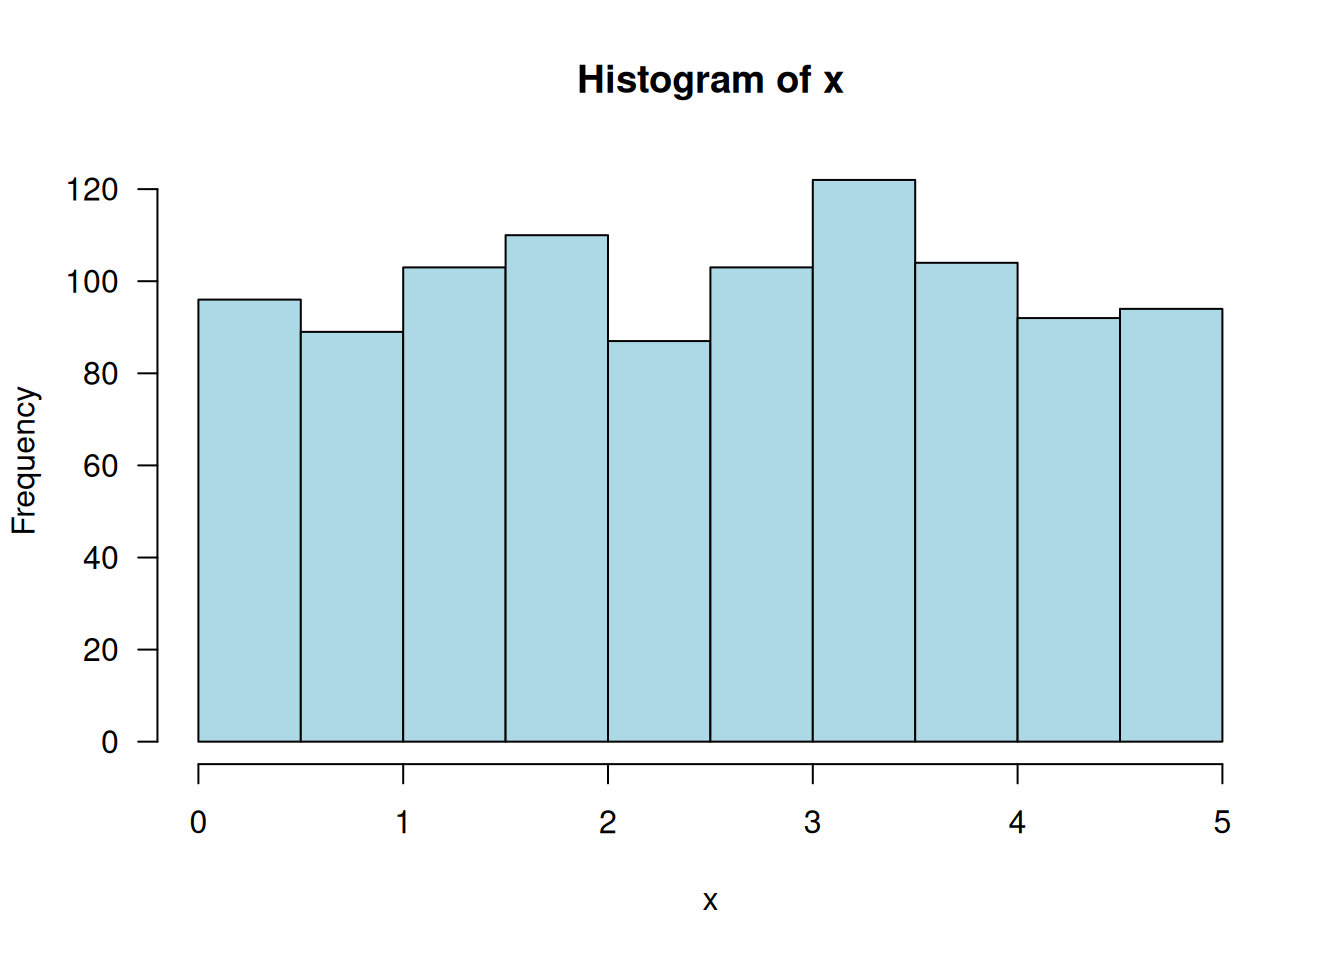
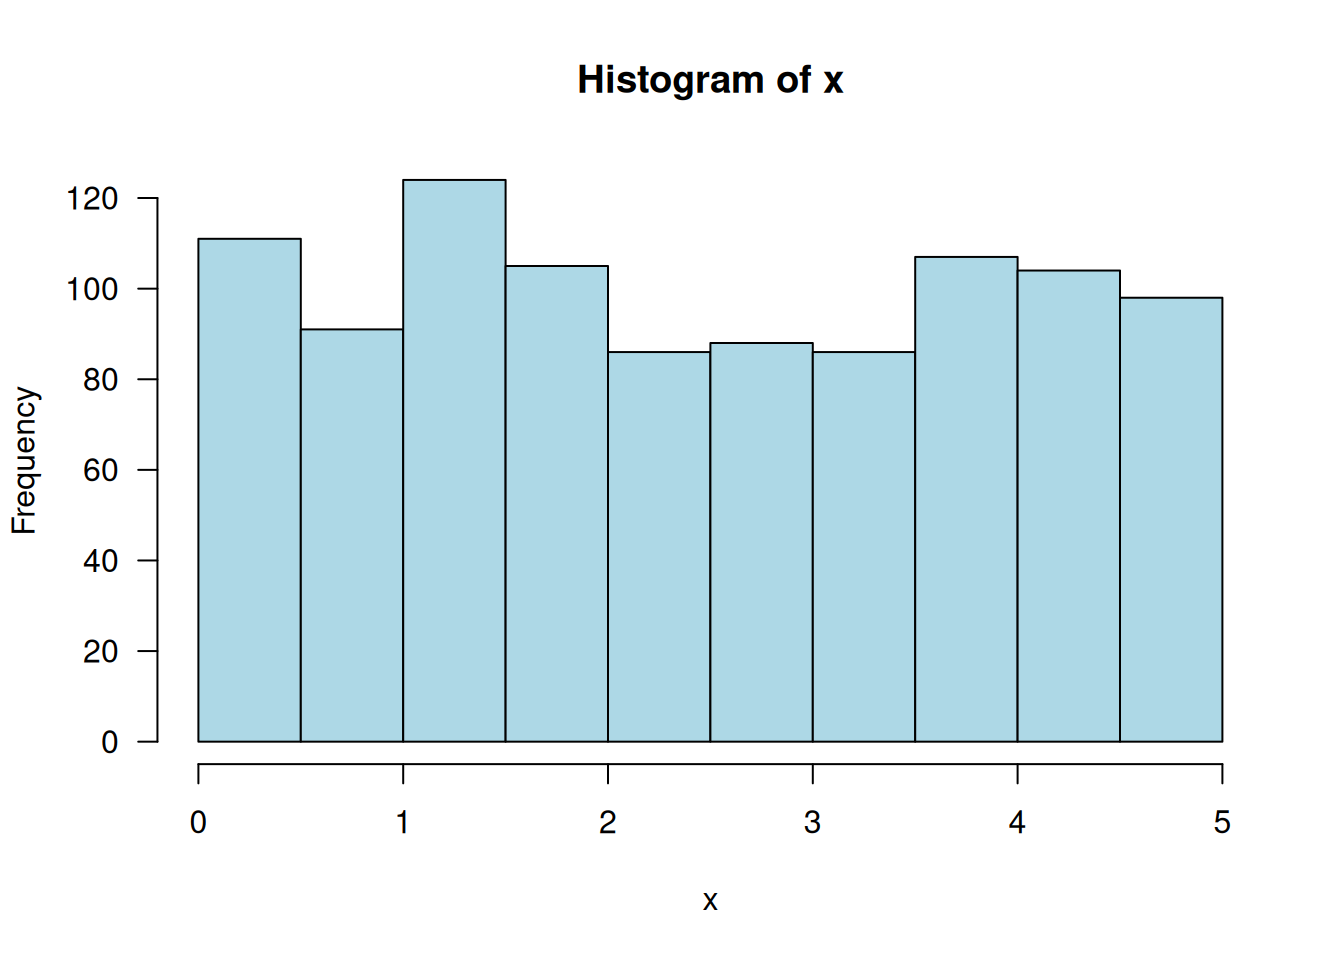
Deploying to gh-pages from @ jtr13/1201@130b52e1caddeb5952ee019c9a14592dcee58bc8 🚀

diff --git a/ch.-1-descriptive-statistics.html b/ch.-1-descriptive-statistics.html
@@ -7,7 +7,7 @@
 <title>Ch. 1 Descriptive Statistics | Stat 1201 Resources</title>
 <meta name="author" content="Joyce Robbins">
 <meta name="description" content="Sections covered: all (skim 1.1) 1.2 Pictorial and Tabular Methods in Descriptive Statistics Skip: Example 1.7, p. 15 (double-digit leaves) Skip: “Dotplots,” pp. 15-16 Stem-and-leaf plots Ex: The...">
-<meta name="generator" content="bookdown 0.43 with bs4_book()">
+<meta name="generator" content="bookdown 0.46 with bs4_book()">
 <meta property="og:title" content="Ch. 1 Descriptive Statistics | Stat 1201 Resources">
 <meta property="og:type" content="book">
 <meta property="og:url" content="https://jtr13.github.io/1201/ch.-1-descriptive-statistics.html">
@@ -140,7 +140,7 @@
 <span>            <span class="fl">675</span>, <span class="fl">699</span>, <span class="fl">699</span>, <span class="fl">725</span>, <span class="fl">725</span>, <span class="fl">745</span>, <span class="fl">799</span><span class="op">)</span></span>
 <span></span>
 <span><span class="fu"><a href="https://rdrr.io/r/graphics/hist.html">hist</a></span><span class="op">(</span><span class="va">prices</span><span class="op">)</span></span></code></pre></div>
-<div class="inline-figure"><img src="STAT1201-resource_files/figure-html/unnamed-chunk-14-1.png" width="65%" style="display: block; margin: auto;"></div>
+<div class="inline-figure"><img src="STAT1201-resource_files/figure-html/unnamed-chunk-14-1.png" alt="" width="65%" style="display: block; margin: auto;"></div>
 <p><em>Note: histograms are drawn with unbinned data. R does the binning in the process of drawing the histogram. This means that the program chooses the size of the bins for you.</em></p>
 <p>To add specific bin sizes and colors to your histogram, you can use the following syntax:</p>
 <div class="sourceCode" id="cb47"><pre class="downlit sourceCode r">
@@ -148,7 +148,7 @@
 <span>            <span class="fl">675</span>, <span class="fl">699</span>, <span class="fl">699</span>, <span class="fl">725</span>, <span class="fl">725</span>, <span class="fl">745</span>, <span class="fl">799</span><span class="op">)</span></span>
 <span><span class="fu"><a href="https://rdrr.io/r/graphics/hist.html">hist</a></span><span class="op">(</span><span class="va">prices</span>, breaks <span class="op">=</span> <span class="fu"><a href="https://rdrr.io/r/base/c.html">c</a></span><span class="op">(</span><span class="fl">300</span>, <span class="fl">400</span>, <span class="fl">500</span>, <span class="fl">600</span>, <span class="fl">700</span>, <span class="fl">800</span><span class="op">)</span>,</span>
 <span>     col <span class="op">=</span> <span class="st">"lightblue"</span><span class="op">)</span></span></code></pre></div>
-<div class="inline-figure"><img src="STAT1201-resource_files/figure-html/unnamed-chunk-15-1.png" width="65%" style="display: block; margin: auto;"></div>
+<div class="inline-figure"><img src="STAT1201-resource_files/figure-html/unnamed-chunk-15-1.png" alt="" width="65%" style="display: block; margin: auto;"></div>
 </div>
 <div id="density-histogram" class="section level3 unnumbered">
 <h3>Density histogram<a class="anchor" aria-label="anchor" href="#density-histogram"><i class="fas fa-link"></i></a>
@@ -161,7 +161,7 @@
 <span><span class="fu"><a href="https://rdrr.io/r/graphics/hist.html">hist</a></span><span class="op">(</span><span class="va">prices</span>, freq <span class="op">=</span> <span class="cn">FALSE</span>, </span>
 <span>     breaks <span class="op">=</span> <span class="fu"><a href="https://rdrr.io/r/base/c.html">c</a></span><span class="op">(</span><span class="fl">300</span>, <span class="fl">400</span>, <span class="fl">500</span>, <span class="fl">600</span>, <span class="fl">700</span>, <span class="fl">800</span><span class="op">)</span>,</span>
 <span>     col <span class="op">=</span> <span class="st">"lightblue"</span>, las <span class="op">=</span> <span class="fl">1</span><span class="op">)</span></span></code></pre></div>
-<div class="inline-figure"><img src="STAT1201-resource_files/figure-html/unnamed-chunk-16-1.png" width="65%" style="display: block; margin: auto;"></div>
+<div class="inline-figure"><img src="STAT1201-resource_files/figure-html/unnamed-chunk-16-1.png" alt="" width="65%" style="display: block; margin: auto;"></div>
 <p>(<code>las = 1</code> makes all the labels horizontal.)</p>
 </div>
 </div>
@@ -233,10 +233,10 @@
 <span>            <span class="fl">599</span>, <span class="fl">665</span>, <span class="fl">675</span>, <span class="fl">699</span>, <span class="fl">699</span>, <span class="fl">725</span>, <span class="fl">725</span>, <span class="fl">745</span>, <span class="fl">799</span><span class="op">)</span></span>
 <span></span>
 <span><span class="fu"><a href="https://rdrr.io/r/graphics/boxplot.html">boxplot</a></span><span class="op">(</span><span class="va">prices</span><span class="op">)</span></span></code></pre></div>
-<div class="inline-figure"><img src="STAT1201-resource_files/figure-html/unnamed-chunk-21-1.png" width="65%" style="display: block; margin: auto;"></div>
+<div class="inline-figure"><img src="STAT1201-resource_files/figure-html/unnamed-chunk-21-1.png" alt="" width="65%" style="display: block; margin: auto;"></div>
 <div class="sourceCode" id="cb66"><pre class="downlit sourceCode r">
 <code class="sourceCode R"><span><span class="fu"><a href="https://rdrr.io/r/graphics/boxplot.html">boxplot</a></span><span class="op">(</span><span class="va">prices</span>, horizontal <span class="op">=</span> <span class="cn">TRUE</span><span class="op">)</span></span></code></pre></div>
-<div class="inline-figure"><img src="STAT1201-resource_files/figure-html/unnamed-chunk-21-2.png" width="65%" style="display: block; margin: auto;"></div>
+<div class="inline-figure"><img src="STAT1201-resource_files/figure-html/unnamed-chunk-21-2.png" alt="" width="65%" style="display: block; margin: auto;"></div>
 <ul>
 <li>Comparitive boxplots</li>
 </ul>
@@ -247,7 +247,7 @@
 <span><span class="va">Healthy</span> <span class="op">&lt;-</span> <span class="fu"><a href="https://rdrr.io/r/base/c.html">c</a></span><span class="op">(</span><span class="fl">23</span>, <span class="fl">39</span>, <span class="fl">40</span>, <span class="fl">41</span>, <span class="fl">43</span>, <span class="fl">47</span>, <span class="fl">51</span>, <span class="fl">58</span>, <span class="fl">63</span>, <span class="fl">66</span>, <span class="fl">67</span>, <span class="fl">69</span>, <span class="fl">72</span><span class="op">)</span></span>
 <span></span>
 <span><span class="fu"><a href="https://rdrr.io/r/graphics/boxplot.html">boxplot</a></span><span class="op">(</span><span class="va">PTSD</span>, <span class="va">Healthy</span>, names <span class="op">=</span> <span class="fu"><a href="https://rdrr.io/r/base/c.html">c</a></span><span class="op">(</span><span class="st">"PTSD"</span>, <span class="st">"Healthy"</span><span class="op">)</span>, horizontal <span class="op">=</span> <span class="cn">TRUE</span><span class="op">)</span></span></code></pre></div>
-<div class="inline-figure"><img src="STAT1201-resource_files/figure-html/unnamed-chunk-22-1.png" width="65%" style="display: block; margin: auto;"></div>
+<div class="inline-figure"><img src="STAT1201-resource_files/figure-html/unnamed-chunk-22-1.png" alt="" width="65%" style="display: block; margin: auto;"></div>
 </div>
 </div>
 <div id="practice-exercises" class="section level2 unnumbered">
@@ -274,7 +274,7 @@
 <code class="sourceCode R"><span><span class="co"># Boxplot </span></span>
 <span><span class="co"># '$' extracts the column by name</span></span>
 <span><span class="fu"><a href="https://rdrr.io/r/graphics/boxplot.html">boxplot</a></span><span class="op">(</span><span class="va">ToothGrowth</span><span class="op">$</span><span class="va">len</span><span class="op">)</span> </span></code></pre></div>
-<div class="inline-figure"><img src="STAT1201-resource_files/figure-html/unnamed-chunk-23-1.png" width="65%" style="display: block; margin: auto;"></div>
+<div class="inline-figure"><img src="STAT1201-resource_files/figure-html/unnamed-chunk-23-1.png" alt="" width="65%" style="display: block; margin: auto;"></div>
 <div class="sourceCode" id="cb73"><pre class="downlit sourceCode r">
 <code class="sourceCode R"><span><span class="co"># Stem-and-leaf Plot</span></span>
 <span><span class="fu"><a href="https://rdrr.io/r/graphics/stem.html">stem</a></span><span class="op">(</span><span class="va">ToothGrowth</span><span class="op">$</span><span class="va">len</span><span class="op">)</span></span></code></pre></div>
@@ -291,12 +291,12 @@
 <div class="sourceCode" id="cb75"><pre class="downlit sourceCode r">
 <code class="sourceCode R"><span><span class="co"># Histogram</span></span>
 <span><span class="va">h</span> <span class="op">&lt;-</span> <span class="fu"><a href="https://rdrr.io/r/graphics/hist.html">hist</a></span><span class="op">(</span><span class="va">ToothGrowth</span><span class="op">$</span><span class="va">len</span><span class="op">)</span></span></code></pre></div>
-<div class="inline-figure"><img src="STAT1201-resource_files/figure-html/unnamed-chunk-23-2.png" width="65%" style="display: block; margin: auto;"></div>
+<div class="inline-figure"><img src="STAT1201-resource_files/figure-html/unnamed-chunk-23-2.png" alt="" width="65%" style="display: block; margin: auto;"></div>
 <div class="sourceCode" id="cb76"><pre class="downlit sourceCode r">
 <code class="sourceCode R"><span><span class="co"># Cumulative Histogram</span></span>
 <span><span class="va">h</span><span class="op">$</span><span class="va">counts</span> <span class="op">&lt;-</span> <span class="fu"><a href="https://rdrr.io/r/base/cumsum.html">cumsum</a></span><span class="op">(</span><span class="va">h</span><span class="op">$</span><span class="va">counts</span><span class="op">)</span></span>
 <span><span class="fu"><a href="https://rdrr.io/r/graphics/plot.default.html">plot</a></span><span class="op">(</span><span class="va">h</span><span class="op">)</span></span></code></pre></div>
-<div class="inline-figure"><img src="STAT1201-resource_files/figure-html/unnamed-chunk-23-3.png" width="65%" style="display: block; margin: auto;"></div>
+<div class="inline-figure"><img src="STAT1201-resource_files/figure-html/unnamed-chunk-23-3.png" alt="" width="65%" style="display: block; margin: auto;"></div>
 <div id="summary-of-r-functions" class="section level3 unnumbered">
 <h3>Summary of R functions<a class="anchor" aria-label="anchor" href="#summary-of-r-functions"><i class="fas fa-link"></i></a>
 </h3>
@@ -351,7 +351,7 @@
 <footer class="bg-primary text-light mt-5"><div class="container"><div class="row">
 
   <div class="col-12 col-md-6 mt-3">
-    <p>"<strong>Stat 1201 Resources</strong>" was written by Joyce Robbins. It was last built on 2025-05-07.</p>
+    <p>"<strong>Stat 1201 Resources</strong>" was written by Joyce Robbins. It was last built on 2026-01-24.</p>
   </div>
 
   <div class="col-12 col-md-6 mt-3">

diff --git a/getting-started-with-r.html b/getting-started-with-r.html
@@ -7,7 +7,7 @@
 <title>Getting Started with R | Stat 1201 Resources</title>
 <meta name="author" content="Joyce Robbins">
 <meta name="description" content="Using R without installing it https://rdrr.io/snippets/ The bare minimum: You can create vectors of numbers using this format: x &lt;- c(10, 12, 15, 20, 21, 22, 35, 45, 50)   # click to copy --&gt; Then...">
-<meta name="generator" content="bookdown 0.43 with bs4_book()">
+<meta name="generator" content="bookdown 0.46 with bs4_book()">
 <meta property="og:title" content="Getting Started with R | Stat 1201 Resources">
 <meta property="og:type" content="book">
 <meta property="og:url" content="https://jtr13.github.io/1201/getting-started-with-r.html">
@@ -103,10 +103,10 @@
 ##   5 | 0</code></pre>
 <div class="sourceCode" id="cb12"><pre class="downlit sourceCode r">
 <code class="sourceCode R"><span><span class="fu"><a href="https://rdrr.io/r/graphics/hist.html">hist</a></span><span class="op">(</span><span class="va">x</span><span class="op">)</span></span></code></pre></div>
-<div class="inline-figure"><img src="STAT1201-resource_files/figure-html/unnamed-chunk-3-1.png" width="65%" style="display: block; margin: auto;"></div>
+<div class="inline-figure"><img src="STAT1201-resource_files/figure-html/unnamed-chunk-3-1.png" alt="" width="65%" style="display: block; margin: auto;"></div>
 <div class="sourceCode" id="cb13"><pre class="downlit sourceCode r">
 <code class="sourceCode R"><span><span class="fu"><a href="https://rdrr.io/r/graphics/boxplot.html">boxplot</a></span><span class="op">(</span><span class="va">x</span><span class="op">)</span></span></code></pre></div>
-<div class="inline-figure"><img src="STAT1201-resource_files/figure-html/unnamed-chunk-3-2.png" width="65%" style="display: block; margin: auto;"></div>
+<div class="inline-figure"><img src="STAT1201-resource_files/figure-html/unnamed-chunk-3-2.png" alt="" width="65%" style="display: block; margin: auto;"></div>
 </div>
 <div id="installing-r" class="section level2 unnumbered">
 <h2>Installing R<a class="anchor" aria-label="anchor" href="#installing-r"><i class="fas fa-link"></i></a>
@@ -132,6 +132,7 @@
 </h3>
 <iframe width="560" height="315" src="https://www.youtube.com/embed/tQvtYdLvSSg" frameborder="0" allow="accelerometer; autoplay; encrypted-media; gyroscope; picture-in-picture" allowfullscreen>
 </iframe>
+<p>Resource from video: <a href="https://monashdatafluency.github.io/r-intro-2/starting.html">Monash Data Fluency’s <em>Introduction to R</em></a></p>
 </div>
 <div id="quick-review-of-material-covered-in-the-video-plus-additional-examples" class="section level3 unnumbered">
 <h3>Quick review of material covered in the video, plus additional examples<a class="anchor" aria-label="anchor" href="#quick-review-of-material-covered-in-the-video-plus-additional-examples"><i class="fas fa-link"></i></a>
@@ -227,7 +228,7 @@
 <p>Now you can use the same functions as described above:</p>
 <div class="sourceCode" id="cb38"><pre class="downlit sourceCode r">
 <code class="sourceCode R"><span><span class="fu"><a href="https://rdrr.io/r/graphics/boxplot.html">boxplot</a></span><span class="op">(</span><span class="va">noise</span>, horizontal <span class="op">=</span> <span class="cn">TRUE</span><span class="op">)</span></span></code></pre></div>
-<div class="inline-figure"><img src="STAT1201-resource_files/figure-html/unnamed-chunk-9-1.png" width="65%" style="display: block; margin: auto;"></div>
+<div class="inline-figure"><img src="STAT1201-resource_files/figure-html/unnamed-chunk-9-1.png" alt="" width="65%" style="display: block; margin: auto;"></div>
 
 </div>
 </div>
@@ -272,7 +273,7 @@
 <footer class="bg-primary text-light mt-5"><div class="container"><div class="row">
 
   <div class="col-12 col-md-6 mt-3">
-    <p>"<strong>Stat 1201 Resources</strong>" was written by Joyce Robbins. It was last built on 2025-05-07.</p>
+    <p>"<strong>Stat 1201 Resources</strong>" was written by Joyce Robbins. It was last built on 2026-01-24.</p>
   </div>
 
   <div class="col-12 col-md-6 mt-3">

diff --git a/ch.-4-continuous-random-variables-and-probability-distributions.html b/ch.-4-continuous-random-variables-and-probability-distributions.html
@@ -7,7 +7,7 @@
 <title>Ch. 4 Continuous Random Variables and Probability Distributions | Stat 1201 Resources</title>
 <meta name="author" content="Joyce Robbins">
 <meta name="description" content="Sections covered: 4.1, 4.2, 4.3, 4.4 (exponential only) 4.1 Probability density functions  R Simulating a uniform distribution Randomly choose one number from the distribution: \(f(x) = .2\) for...">
-<meta name="generator" content="bookdown 0.43 with bs4_book()">
+<meta name="generator" content="bookdown 0.46 with bs4_book()">
 <meta property="og:title" content="Ch. 4 Continuous Random Variables and Probability Distributions | Stat 1201 Resources">
 <meta property="og:type" content="book">
 <meta property="og:url" content="https://jtr13.github.io/1201/ch.-4-continuous-random-variables-and-probability-distributions.html">
@@ -83,16 +83,16 @@
 <p><span class="math inline">\(f(x) = .2\)</span> for <span class="math inline">\(0 \leq x \leq 5\)</span>, 0 otherwise.</p>
 <div class="sourceCode" id="cb161"><pre class="downlit sourceCode r">
 <code class="sourceCode R"><span><span class="fu"><a href="https://rdrr.io/r/stats/Uniform.html">runif</a></span><span class="op">(</span>n <span class="op">=</span> <span class="fl">1</span>, min <span class="op">=</span> <span class="fl">0</span>, max <span class="op">=</span> <span class="fl">5</span><span class="op">)</span></span></code></pre></div>
-<pre><code>## [1] 4.139826</code></pre>
+<pre><code>## [1] 4.379854</code></pre>
 <p>Take the average of 1000 picks:</p>
 <div class="sourceCode" id="cb163"><pre class="downlit sourceCode r">
 <code class="sourceCode R"><span><span class="va">x</span> <span class="op">&lt;-</span> <span class="fu"><a href="https://rdrr.io/r/stats/Uniform.html">runif</a></span><span class="op">(</span>n <span class="op">=</span> <span class="fl">1000</span>, min <span class="op">=</span> <span class="fl">0</span>, max <span class="op">=</span> <span class="fl">5</span><span class="op">)</span></span>
 <span><span class="fu"><a href="https://rdrr.io/r/base/mean.html">mean</a></span><span class="op">(</span><span class="va">x</span><span class="op">)</span></span></code></pre></div>
-<pre><code>## [1] 2.508071</code></pre>
+<pre><code>## [1] 2.449485</code></pre>
 <p>Draw a histogram of the 1000 picks:</p>
 <div class="sourceCode" id="cb165"><pre class="downlit sourceCode r">
 <code class="sourceCode R"><span><span class="fu"><a href="https://rdrr.io/r/graphics/hist.html">hist</a></span><span class="op">(</span><span class="va">x</span>, las <span class="op">=</span> <span class="fl">1</span>, col <span class="op">=</span> <span class="st">"lightblue"</span><span class="op">)</span></span></code></pre></div>
-<div class="inline-figure"><img src="STAT1201-resource_files/figure-html/unnamed-chunk-47-1.png" width="65%" style="display: block; margin: auto;"></div>
+<div class="inline-figure"><img src="STAT1201-resource_files/figure-html/unnamed-chunk-47-1.png" alt="" width="65%" style="display: block; margin: auto;"></div>
 </div>
 <div id="cumulative-distribution-functions-and-expected-values" class="section level2 unnumbered">
 <h2>4.2 Cumulative Distribution Functions and Expected Values<a class="anchor" aria-label="anchor" href="#cumulative-distribution-functions-and-expected-values"><i class="fas fa-link"></i></a>
@@ -271,7 +271,7 @@ aid, sothat <em>p = .25</em>. What is the probability that at most 10 students r
 <footer class="bg-primary text-light mt-5"><div class="container"><div class="row">
 
   <div class="col-12 col-md-6 mt-3">
-    <p>"<strong>Stat 1201 Resources</strong>" was written by Joyce Robbins. It was last built on 2025-05-07.</p>
+    <p>"<strong>Stat 1201 Resources</strong>" was written by Joyce Robbins. It was last built on 2026-01-24.</p>
   </div>
 
   <div class="col-12 col-md-6 mt-3">

diff --git a/ch.-3-discrete-distributions.html b/ch.-3-discrete-distributions.html
@@ -7,7 +7,7 @@
 <title>Ch. 3 Discrete Distributions | Stat 1201 Resources</title>
 <meta name="author" content="Joyce Robbins">
 <meta name="description" content="Sections covered: 3.1 - 3.6 Skip: “The Poisson Distribution as a Limit” (pp. 132-33) and “The Poisson Process” (pp. 134-135) There is no direct way in R to calculate the mean and variance of a...">
-<meta name="generator" content="bookdown 0.43 with bs4_book()">
+<meta name="generator" content="bookdown 0.46 with bs4_book()">
 <meta property="og:title" content="Ch. 3 Discrete Distributions | Stat 1201 Resources">
 <meta property="og:type" content="book">
 <meta property="og:url" content="https://jtr13.github.io/1201/ch.-3-discrete-distributions.html">
@@ -166,7 +166,7 @@
 <code class="sourceCode R"><span><span class="va">px</span> <span class="op">&lt;-</span> <span class="fu"><a href="https://rdrr.io/r/stats/Binomial.html">dbinom</a></span><span class="op">(</span><span class="fl">0</span><span class="op">:</span><span class="fl">10</span>, <span class="fl">10</span>, <span class="fl">.7</span><span class="op">)</span></span>
 <span><span class="co"># adding las = 1 turns the y-axis tick mark labels horizontal, which are easier to read</span></span>
 <span><span class="fu"><a href="https://rdrr.io/r/graphics/barplot.html">barplot</a></span><span class="op">(</span><span class="va">px</span>, names.arg <span class="op">=</span> <span class="fl">0</span><span class="op">:</span><span class="fl">10</span>, las <span class="op">=</span> <span class="fl">1</span>, col <span class="op">=</span> <span class="st">"lightblue"</span><span class="op">)</span></span></code></pre></div>
-<div class="inline-figure"><img src="STAT1201-resource_files/figure-html/unnamed-chunk-35-1.png" width="65%" style="display: block; margin: auto;"></div>
+<div class="inline-figure"><img src="STAT1201-resource_files/figure-html/unnamed-chunk-35-1.png" alt="" width="65%" style="display: block; margin: auto;"></div>
 </div>
 </div>
 <div id="hypergeometric" class="section level2 unnumbered">
@@ -366,7 +366,7 @@
 <footer class="bg-primary text-light mt-5"><div class="container"><div class="row">
 
   <div class="col-12 col-md-6 mt-3">
-    <p>"<strong>Stat 1201 Resources</strong>" was written by Joyce Robbins. It was last built on 2025-05-07.</p>
+    <p>"<strong>Stat 1201 Resources</strong>" was written by Joyce Robbins. It was last built on 2026-01-24.</p>
   </div>
 
   <div class="col-12 col-md-6 mt-3">

diff --git a/404.html b/404.html
@@ -7,7 +7,7 @@
 <title>Page not found | Stat 1201 Resources</title>
 <meta name="author" content="Joyce Robbins">
 <meta name="description" content="The page you requested cannot be found (perhaps it was moved or renamed). You may want to try searching to find the page's new location, or use the table of contents to find the page you are...">
-<meta name="generator" content="bookdown 0.43 with bs4_book()">
+<meta name="generator" content="bookdown 0.46 with bs4_book()">
 <meta property="og:title" content="Page not found | Stat 1201 Resources">
 <meta property="og:type" content="book">
 <meta property="og:url" content="https://jtr13.github.io/1201/404.html">
@@ -86,7 +86,7 @@ the table of contents to find the page you are looking for.</p>
 <footer class="bg-primary text-light mt-5"><div class="container"><div class="row">
 
   <div class="col-12 col-md-6 mt-3">
-    <p>"<strong>Stat 1201 Resources</strong>" was written by Joyce Robbins. It was last built on 2025-05-07.</p>
+    <p>"<strong>Stat 1201 Resources</strong>" was written by Joyce Robbins. It was last built on 2026-01-24.</p>
   </div>
 
   <div class="col-12 col-md-6 mt-3">

diff --git a/ch.-12-linear-regression.html b/ch.-12-linear-regression.html
@@ -7,7 +7,7 @@
 <title>Ch. 12 Linear Regression | Stat 1201 Resources</title>
 <meta name="author" content="Joyce Robbins">
 <meta name="description" content="Sections covered: 12.1, 12.2, 12.5 12.1 The Simple Linear Regression Model  12.2 Estimating Model Parameters Formulas to know from p. 498: \(b_1 = \dfrac{\sum(x_i -\overline{x})(y_i -...">
-<meta name="generator" content="bookdown 0.43 with bs4_book()">
+<meta name="generator" content="bookdown 0.46 with bs4_book()">
 <meta property="og:title" content="Ch. 12 Linear Regression | Stat 1201 Resources">
 <meta property="og:type" content="book">
 <meta property="og:url" content="https://jtr13.github.io/1201/ch.-12-linear-regression.html">
@@ -218,7 +218,7 @@
 <footer class="bg-primary text-light mt-5"><div class="container"><div class="row">
 
   <div class="col-12 col-md-6 mt-3">
-    <p>"<strong>Stat 1201 Resources</strong>" was written by Joyce Robbins. It was last built on 2025-05-07.</p>
+    <p>"<strong>Stat 1201 Resources</strong>" was written by Joyce Robbins. It was last built on 2026-01-24.</p>
   </div>
 
   <div class="col-12 col-md-6 mt-3">

diff --git a/ch.-13-nonlinear-and-multiple-regression.html b/ch.-13-nonlinear-and-multiple-regression.html
@@ -7,7 +7,7 @@
 <title>Ch. 13 Nonlinear and Multiple Regression | Stat 1201 Resources</title>
 <meta name="author" content="Joyce Robbins">
 <meta name="description" content="Sections covered: 13.1 13.1 Assessing Model Adequacy Skip: standardized residuals Residuals plots: know \(e\) vs. \(x\) only Difficulties and remedies: 1. - 4. – know the difficulties, not the...">
-<meta name="generator" content="bookdown 0.43 with bs4_book()">
+<meta name="generator" content="bookdown 0.46 with bs4_book()">
 <meta property="og:title" content="Ch. 13 Nonlinear and Multiple Regression | Stat 1201 Resources">
 <meta property="og:type" content="book">
 <meta property="og:url" content="https://jtr13.github.io/1201/ch.-13-nonlinear-and-multiple-regression.html">
@@ -106,7 +106,7 @@
 <footer class="bg-primary text-light mt-5"><div class="container"><div class="row">
 
   <div class="col-12 col-md-6 mt-3">
-    <p>"<strong>Stat 1201 Resources</strong>" was written by Joyce Robbins. It was last built on 2025-05-07.</p>
+    <p>"<strong>Stat 1201 Resources</strong>" was written by Joyce Robbins. It was last built on 2026-01-24.</p>
   </div>
 
   <div class="col-12 col-md-6 mt-3">

diff --git a/ch.-14-chi-squared-test.html b/ch.-14-chi-squared-test.html
@@ -7,7 +7,7 @@
 <title>Ch. 14 Chi Squared Test | Stat 1201 Resources</title>
 <meta name="author" content="Joyce Robbins">
 <meta name="description" content="Sections covered: 14.3 14.3 Two-Way Contingency Tables Skip: pp. 639-643, including “Testing for Homogeneity” Focus on “Testing for Independence (Lack of Association)” Notes on the chi square test...">
-<meta name="generator" content="bookdown 0.43 with bs4_book()">
+<meta name="generator" content="bookdown 0.46 with bs4_book()">
 <meta property="og:title" content="Ch. 14 Chi Squared Test | Stat 1201 Resources">
 <meta property="og:type" content="book">
 <meta property="og:url" content="https://jtr13.github.io/1201/ch.-14-chi-squared-test.html">
@@ -118,7 +118,7 @@
 <footer class="bg-primary text-light mt-5"><div class="container"><div class="row">
 
   <div class="col-12 col-md-6 mt-3">
-    <p>"<strong>Stat 1201 Resources</strong>" was written by Joyce Robbins. It was last built on 2025-05-07.</p>
+    <p>"<strong>Stat 1201 Resources</strong>" was written by Joyce Robbins. It was last built on 2026-01-24.</p>
   </div>
 
   <div class="col-12 col-md-6 mt-3">

diff --git a/ch.-2-conditional-probability.html b/ch.-2-conditional-probability.html
@@ -7,7 +7,7 @@
 <title>Ch. 2 Conditional Probability | Stat 1201 Resources</title>
 <meta name="author" content="Joyce Robbins">
 <meta name="description" content="Sections covered: 2.4, 2.5 (Section 2.5 was covered earlier; now we’re adding the definition of independence in terms of conditional probability on p. 85: “Two events A and B are independent if...">
-<meta name="generator" content="bookdown 0.43 with bs4_book()">
+<meta name="generator" content="bookdown 0.46 with bs4_book()">
 <meta property="og:title" content="Ch. 2 Conditional Probability | Stat 1201 Resources">
 <meta property="og:type" content="book">
 <meta property="og:url" content="https://jtr13.github.io/1201/ch.-2-conditional-probability.html">
@@ -108,7 +108,7 @@
 <footer class="bg-primary text-light mt-5"><div class="container"><div class="row">
 
   <div class="col-12 col-md-6 mt-3">
-    <p>"<strong>Stat 1201 Resources</strong>" was written by Joyce Robbins. It was last built on 2025-05-07.</p>
+    <p>"<strong>Stat 1201 Resources</strong>" was written by Joyce Robbins. It was last built on 2026-01-24.</p>
   </div>
 
   <div class="col-12 col-md-6 mt-3">

diff --git a/ch.-2-probability.html b/ch.-2-probability.html
@@ -7,7 +7,7 @@
 <title>Ch. 2 Probability | Stat 1201 Resources</title>
 <meta name="author" content="Joyce Robbins">
 <meta name="description" content="Sections covered: 2.1, 2.2, 2.3, 2.5 (2.4 will be covered later in the semester) 2.1 Sample Spaces and Events  Humor  Source: https://twitter.com/bcrypt/status/1074415553266122752/photo/1  2.2...">
-<meta name="generator" content="bookdown 0.43 with bs4_book()">
+<meta name="generator" content="bookdown 0.46 with bs4_book()">
 <meta property="og:title" content="Ch. 2 Probability | Stat 1201 Resources">
 <meta property="og:type" content="book">
 <meta property="og:url" content="https://jtr13.github.io/1201/ch.-2-probability.html">
@@ -154,7 +154,7 @@
 <footer class="bg-primary text-light mt-5"><div class="container"><div class="row">
 
   <div class="col-12 col-md-6 mt-3">
-    <p>"<strong>Stat 1201 Resources</strong>" was written by Joyce Robbins. It was last built on 2025-05-07.</p>
+    <p>"<strong>Stat 1201 Resources</strong>" was written by Joyce Robbins. It was last built on 2026-01-24.</p>
   </div>
 
   <div class="col-12 col-md-6 mt-3">

diff --git a/ch.-5-joint-probability.html b/ch.-5-joint-probability.html
@@ -7,7 +7,7 @@
 <title>Ch. 5 Joint Probability | Stat 1201 Resources</title>
 <meta name="author" content="Joyce Robbins">
 <meta name="description" content="Sections covered: 5.1, 5.2 5.1 Jointly Distributed Random Variables Skip everything but “Two Discrete Random Variables” pp. 199-200 and “Independent Random Variables” pp. 204-205 (discrete case...">
-<meta name="generator" content="bookdown 0.43 with bs4_book()">
+<meta name="generator" content="bookdown 0.46 with bs4_book()">
 <meta property="og:title" content="Ch. 5 Joint Probability | Stat 1201 Resources">
 <meta property="og:type" content="book">
 <meta property="og:url" content="https://jtr13.github.io/1201/ch.-5-joint-probability.html">
@@ -149,7 +149,7 @@ Two points are needed to calculate r.
 <footer class="bg-primary text-light mt-5"><div class="container"><div class="row">
 
   <div class="col-12 col-md-6 mt-3">
-    <p>"<strong>Stat 1201 Resources</strong>" was written by Joyce Robbins. It was last built on 2025-05-07.</p>
+    <p>"<strong>Stat 1201 Resources</strong>" was written by Joyce Robbins. It was last built on 2026-01-24.</p>
   </div>
 
   <div class="col-12 col-md-6 mt-3">

diff --git a/ch.-5-random-samples.html b/ch.-5-random-samples.html
@@ -7,7 +7,7 @@
 <title>Ch. 5 Random Samples | Stat 1201 Resources</title>
 <meta name="author" content="Joyce Robbins">
 <meta name="description" content="Sections covered: 5.3, 5.4, 5.5 5.4 The Distribution of the Sample Mean Central Limit Theorem visualization: http://mfviz.com/central-limit/  5.5 The Distribution of a Linear Combination Skip (for...">
-<meta name="generator" content="bookdown 0.43 with bs4_book()">
+<meta name="generator" content="bookdown 0.46 with bs4_book()">
 <meta property="og:title" content="Ch. 5 Random Samples | Stat 1201 Resources">
 <meta property="og:type" content="book">
 <meta property="og:url" content="https://jtr13.github.io/1201/ch.-5-random-samples.html">
@@ -109,7 +109,7 @@
 <footer class="bg-primary text-light mt-5"><div class="container"><div class="row">
 
   <div class="col-12 col-md-6 mt-3">
-    <p>"<strong>Stat 1201 Resources</strong>" was written by Joyce Robbins. It was last built on 2025-05-07.</p>
+    <p>"<strong>Stat 1201 Resources</strong>" was written by Joyce Robbins. It was last built on 2026-01-24.</p>
   </div>
 
   <div class="col-12 col-md-6 mt-3">